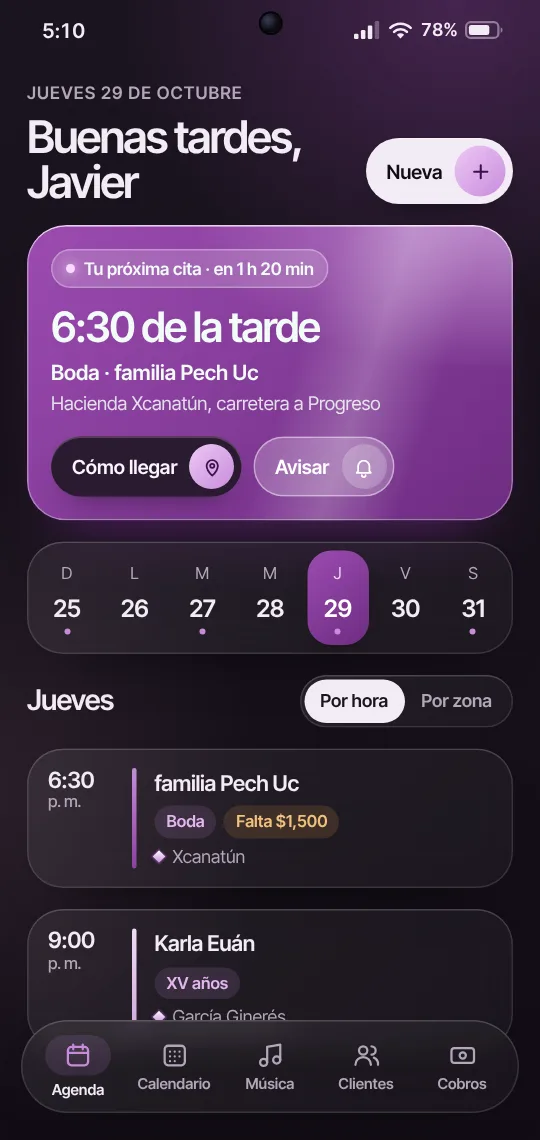
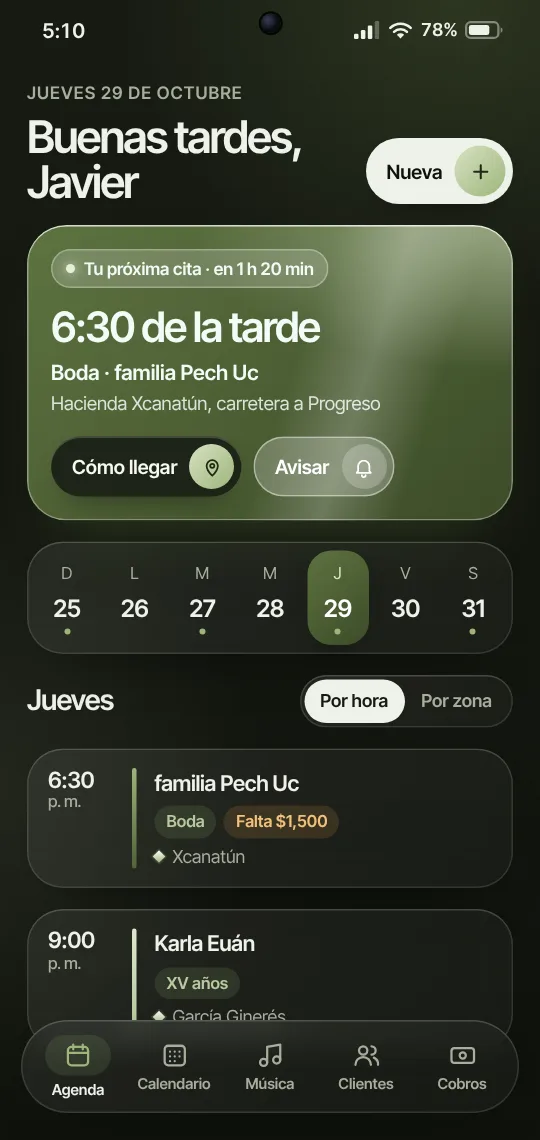
Mis citas en olivo profundo (escogido por Javi)
Claude-Session: https://claude.ai/code/session_01Kc7UqCn6E9o6Li3sPnE4yz

diff --git a/diseno/capturas/mis-citas.html b/diseno/capturas/mis-citas.html
@@ -4,7 +4,7 @@
 <meta charset="utf-8">
 <meta name="viewport" content="width=360">
 <title>Mis citas · pantallas para la web</title>
-<!-- Pantallas de Mis citas dibujadas con el acabado de Ari Labs (su color: ciruela).
+<!-- Pantallas de Mis citas dibujadas con el acabado de Ari Labs (su color: olivo profundo).
      Se abren con ?p=claro, ?p=oscuro o ?p=detalle y se fotografían a 360x760 con escala 1.5 (540x1140).
      Regenerar: node diseno/capturas/sacar.js (ver ese archivo). -->
 <link rel="preconnect" href="https://fonts.googleapis.com">
@@ -12,22 +12,22 @@
 <link href="https://fonts.googleapis.com/css2?family=Inter+Tight:wght@400;500;600&display=swap" rel="stylesheet">
 <style>
   :root{
-    --fondo:#f3ecf5; --fondo2:#fcf9fd; --tinta:#2a1b2f; --suave:#685a6d; --linea:rgba(255,255,255,.8);
+    --fondo:#eef1ea; --fondo2:#fafbf8; --tinta:#1e2418; --suave:#5a6352; --linea:rgba(255,255,255,.8);
     --vidrio:rgba(255,255,255,.55); --vidrio2:rgba(255,255,255,.3);
-    --esmeralda:#8a3f9e; --esmeralda2:#c98bdc; --noche:#2f2433; --chip:rgba(138,63,158,.12); --chip-t:#7a3290;
-    --alerta:rgba(214,140,40,.14); --alerta-t:#8a5310; --sombra:0 18px 40px -26px rgba(42,27,47,.45);
+    --esmeralda:#4f6236; --esmeralda2:#9db67a; --noche:#262d1f; --chip:rgba(79,98,54,.12); --chip-t:#3f4f2a;
+    --alerta:rgba(214,140,40,.14); --alerta-t:#8a5310; --sombra:0 18px 40px -26px rgba(30,36,24,.45);
   }
   .oscuro{
-    --fondo:#120d15; --fondo2:#1b141f; --tinta:#f3ecf5; --suave:#b3a6b8; --linea:rgba(255,255,255,.12);
+    --fondo:#0f120c; --fondo2:#171b13; --tinta:#eef1ea; --suave:#a7ae9c; --linea:rgba(255,255,255,.12);
     --vidrio:rgba(255,255,255,.07); --vidrio2:rgba(255,255,255,.03);
-    --noche:#f3ecf5; --chip:rgba(201,139,220,.14); --chip-t:#e3b6ef; --alerta:rgba(240,170,80,.14); --alerta-t:#f3c27c;
+    --noche:#eef1ea; --chip:rgba(157,182,122,.14); --chip-t:#b9c9a0; --alerta:rgba(240,170,80,.14); --alerta-t:#f3c27c;
     --sombra:0 18px 40px -26px rgba(0,0,0,.8);
   }
   *{box-sizing:border-box;margin:0}
   html,body{width:360px;height:760px;overflow:hidden}
   body{font:400 14px/1.4 "Inter Tight",system-ui,sans-serif;color:var(--tinta);-webkit-font-smoothing:antialiased;
-    background:radial-gradient(90% 40% at 85% 0%,rgba(201,139,220,.32),transparent 70%),radial-gradient(70% 40% at 0% 60%,rgba(236,172,206,.16),transparent 70%),linear-gradient(180deg,var(--fondo2),var(--fondo))}
-  .oscuro body,body.oscuro{background:radial-gradient(90% 40% at 85% 0%,rgba(138,63,158,.38),transparent 70%),radial-gradient(70% 40% at 0% 70%,rgba(236,172,206,.1),transparent 70%),linear-gradient(180deg,var(--fondo2),var(--fondo))}
+    background:radial-gradient(90% 40% at 85% 0%,rgba(157,182,122,.32),transparent 70%),radial-gradient(70% 40% at 0% 60%,rgba(185,201,160,.16),transparent 70%),linear-gradient(180deg,var(--fondo2),var(--fondo))}
+  .oscuro body,body.oscuro{background:radial-gradient(90% 40% at 85% 0%,rgba(79,98,54,.38),transparent 70%),radial-gradient(70% 40% at 0% 70%,rgba(185,201,160,.1),transparent 70%),linear-gradient(180deg,var(--fondo2),var(--fondo))}
   .pantalla{position:relative;height:760px;padding:0 18px;display:flex;flex-direction:column;gap:14px}
   /* barra de estado como la de un teléfono real: hora, cámara frontal al centro, señal, wifi y batería con su nivel */
   .estado{position:relative;display:flex;justify-content:space-between;align-items:center;height:40px;padding:0 6px 0 10px;font-weight:600;font-size:13.5px;letter-spacing:-.01em;font-variant-numeric:tabular-nums}
@@ -43,17 +43,17 @@
   .circ{display:grid;place-items:center;width:30px;height:30px;border-radius:50%;flex:none}
   .circ svg{width:15px;height:15px}
   .pildora{display:inline-flex;align-items:center;justify-content:space-between;gap:8px;height:40px;padding:0 5px 0 14px;border-radius:999px;font-weight:600;font-size:13px}
-  .pildora.principal{background:#2a1b2f;color:#fbf6fd;box-shadow:inset 0 1px 0 rgba(255,255,255,.18),0 10px 20px -12px rgba(0,0,0,.6)}
-  .pildora.principal .circ{background:linear-gradient(135deg,#ecc8f5,#c98bdc);color:#3a1446}
+  .pildora.principal{background:#1e2418;color:#f7f9f2;box-shadow:inset 0 1px 0 rgba(255,255,255,.18),0 10px 20px -12px rgba(0,0,0,.6)}
+  .pildora.principal .circ{background:linear-gradient(135deg,#d6e2c2,#9db67a);color:#1f2914}
   .pildora.cristal{background:rgba(255,255,255,.22);color:#fff;box-shadow:inset 0 0 0 1px rgba(255,255,255,.45)}
   .pildora.cristal .circ{background:rgba(255,255,255,.22);color:#fff}
   /* la próxima cita: placa de vidrio sobre esmeralda */
   .proxima{position:relative;overflow:hidden;border-radius:26px;padding:16px;color:#f2fbf7;
-    background:radial-gradient(120% 90% at 100% 0%,rgba(236,200,245,.55),transparent 55%),linear-gradient(140deg,#9b4bb0,#6e2c82);
-    box-shadow:inset 0 0 0 1px rgba(255,255,255,.35),inset 0 1px 0 rgba(255,255,255,.6),0 24px 40px -24px rgba(110,44,130,.8)}
+    background:radial-gradient(120% 90% at 100% 0%,rgba(214,226,194,.55),transparent 55%),linear-gradient(140deg,#5d7340,#3c4b28);
+    box-shadow:inset 0 0 0 1px rgba(255,255,255,.35),inset 0 1px 0 rgba(255,255,255,.6),0 24px 40px -24px rgba(60,75,40,.8)}
   .proxima::after{content:"";position:absolute;inset:-30% auto -30% 55%;width:30%;rotate:18deg;background:linear-gradient(90deg,transparent,rgba(255,255,255,.22),transparent)}
   .cuenta{display:inline-flex;align-items:center;gap:6px;padding:5px 10px;border-radius:999px;background:rgba(255,255,255,.18);font-size:11.5px;font-weight:600;box-shadow:inset 0 0 0 1px rgba(255,255,255,.3)}
-  .cuenta::before{content:"";width:6px;height:6px;border-radius:50%;background:#f6dcff;box-shadow:0 0 8px #f6dcff}
+  .cuenta::before{content:"";width:6px;height:6px;border-radius:50%;background:#e6efd7;box-shadow:0 0 8px #e6efd7}
   .proxima .hora{font-size:28px;font-weight:600;letter-spacing:-.04em;line-height:1;margin:12px 0 6px}
   .proxima .quien{font-weight:600;font-size:14px}
   .proxima .donde{opacity:.85;font-size:12.5px;margin:2px 0 14px}
@@ -62,9 +62,9 @@
   .dia{display:grid;justify-items:center;gap:3px;padding:8px 0 7px;border-radius:16px;font-size:11px;color:var(--suave)}
   .dia b{font-size:16px;font-weight:600;color:var(--tinta);letter-spacing:-.02em}
   .dia i{width:4px;height:4px;border-radius:50%;background:var(--esmeralda2)}
-  .dia.hoy{background:#2a1b2f;color:#ead6f1;box-shadow:0 10px 20px -12px rgba(0,0,0,.6)}
+  .dia.hoy{background:#1e2418;color:#dbe5cc;box-shadow:0 10px 20px -12px rgba(0,0,0,.6)}
   .dia.hoy b{color:#fff}
-  .oscuro .dia.hoy{background:linear-gradient(140deg,#9b4bb0,#6e2c82)}
+  .oscuro .dia.hoy{background:linear-gradient(140deg,#5d7340,#3c4b28)}
   .titulo-lista{display:flex;justify-content:space-between;align-items:center}
   .titulo-lista h2{font-size:19px;font-weight:600;letter-spacing:-.03em}
   .seg{display:flex;padding:3px;border-radius:999px;font-size:12px;font-weight:600}
@@ -74,14 +74,14 @@
   .cita .h{width:44px;flex:none;font-weight:600;font-size:15px;letter-spacing:-.02em;line-height:1.1}
   .cita .h small{display:block;font-weight:500;font-size:11px;color:var(--suave)}
   .cita .barra{width:3px;align-self:stretch;border-radius:3px;background:linear-gradient(180deg,var(--esmeralda2),var(--esmeralda))}
-  .cita .barra.az{background:linear-gradient(180deg,#f1dcf8,#d4a3e4)}
+  .cita .barra.az{background:linear-gradient(180deg,#dfe8d0,#aec493)}
   .cita b{display:block;font-weight:600;font-size:14.5px;letter-spacing:-.015em}
   .chips{display:flex;gap:5px;margin:5px 0 4px}
   .chip{font-size:11px;font-weight:600;padding:3px 8px;border-radius:999px;background:var(--chip);color:var(--chip-t)}
   .chip.debe{background:var(--alerta);color:var(--alerta-t)}
   .lugar{display:flex;align-items:center;gap:6px;font-size:12px;color:var(--suave)}
-  .lugar::before{content:"";width:6px;height:6px;rotate:45deg;background:linear-gradient(135deg,#fff,var(--esmeralda2));box-shadow:0 0 0 1px rgba(138,63,158,.45)}
-  .oscuro .arriba .pildora.principal{background:#f3ecf5;color:#120d15}
+  .lugar::before{content:"";width:6px;height:6px;rotate:45deg;background:linear-gradient(135deg,#fff,var(--esmeralda2));box-shadow:0 0 0 1px rgba(79,98,54,.45)}
+  .oscuro .arriba .pildora.principal{background:#eef1ea;color:#0f120c}
   .menu{position:absolute;left:14px;right:14px;bottom:18px;height:62px;border-radius:999px;display:grid;grid-template-columns:repeat(5,1fr);align-items:center;padding:0 6px}
   .menu span{display:grid;justify-items:center;gap:2px;font-size:10px;font-weight:600;color:var(--suave)}
   .menu svg{width:19px;height:19px}
@@ -96,12 +96,12 @@
   .accion{display:grid;justify-items:center;gap:6px;padding:12px 0 10px;font-size:11.5px;font-weight:600}
   .accion .circ{width:38px;height:38px;background:var(--chip);color:var(--esmeralda)}
   .accion .circ svg{width:17px;height:17px}
-  .accion.wa .circ{background:linear-gradient(135deg,#ecc8f5,#c98bdc);color:#3a1446}
+  .accion.wa .circ{background:linear-gradient(135deg,#d6e2c2,#9db67a);color:#1f2914}
   .interruptor{display:flex;justify-content:space-between;align-items:center;padding:12px 16px;font-weight:500}
-  .interruptor+.interruptor{border-top:1px solid rgba(42,27,47,.07)}
-  .tog{width:42px;height:25px;border-radius:999px;background:rgba(42,27,47,.12);position:relative;box-shadow:inset 0 0 0 1px rgba(42,27,47,.06)}
+  .interruptor+.interruptor{border-top:1px solid rgba(30,36,24,.07)}
+  .tog{width:42px;height:25px;border-radius:999px;background:rgba(30,36,24,.12);position:relative;box-shadow:inset 0 0 0 1px rgba(30,36,24,.06)}
   .tog::after{content:"";position:absolute;top:3px;left:3px;width:19px;height:19px;border-radius:50%;background:#fff;box-shadow:0 2px 4px rgba(0,0,0,.2)}
-  .tog.si{background:linear-gradient(135deg,#c98bdc,#8a3f9e)}
+  .tog.si{background:linear-gradient(135deg,#9db67a,#4f6236)}
   .tog.si::after{left:20px}
   .datos{display:grid;grid-template-columns:1fr 1fr;gap:12px 10px;padding:14px 16px}
   .datos div{display:grid;gap:1px}
@@ -111,7 +111,7 @@
   .canciones h3{font-size:14px;font-weight:600;margin-bottom:8px}
   .canciones ul{list-style:none;padding:0;display:grid;gap:6px;font-size:13px}
   .canciones li{display:flex;gap:9px;align-items:center}
-  .canciones li::before{content:"";width:7px;height:7px;rotate:45deg;background:linear-gradient(135deg,#fff,#c98bdc);box-shadow:0 0 0 1px rgba(138,63,158,.5);flex:none}
+  .canciones li::before{content:"";width:7px;height:7px;rotate:45deg;background:linear-gradient(135deg,#fff,#9db67a);box-shadow:0 0 0 1px rgba(79,98,54,.5);flex:none}
 </style>
 </head>
 <body>

diff --git a/diseno/DECISIONES.md b/diseno/DECISIONES.md
@@ -76,7 +76,7 @@ Para verla en local: `cd diseno/muestra && python3 -m http.server` (usa módulos
 - Siguiente sesión: hacer primero Mis citas en la web, después los 3 modelos; vista previa y video al final.
 
 ## Hecho (31/10, tarde): Mis citas y modelos con el acabado de Ari Labs
-- Mis citas en la web: 3 pantallas nuevas dibujadas en `diseno/capturas/mis-citas.html` (color propio: ciruela, escogido por Javi;
+- Mis citas en la web: 3 pantallas nuevas dibujadas en `diseno/capturas/mis-citas.html` (color propio: olivo profundo, escogido por Javi el 31/10 tras ver muestras de olivo;
   acabado Ari Labs: vidrio, píldoras con círculo, rombos). Se fotografían con `node diseno/capturas/sacar.js`
   (servidor local en el puerto 8123) y quedan en img/citas-*.webp. La app real sigue igual por ahora.
 - Modelos rehechos con una base común `modelos/acabado.css` + `modelos/acabado.js` (la misma mano) y cada uno con su
